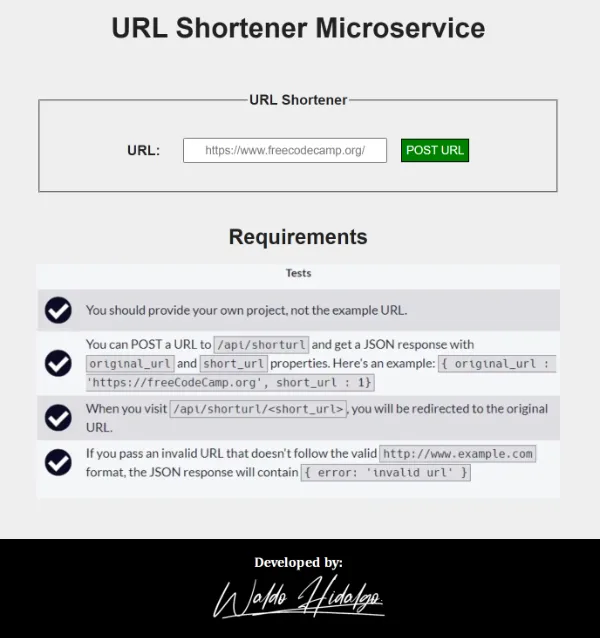
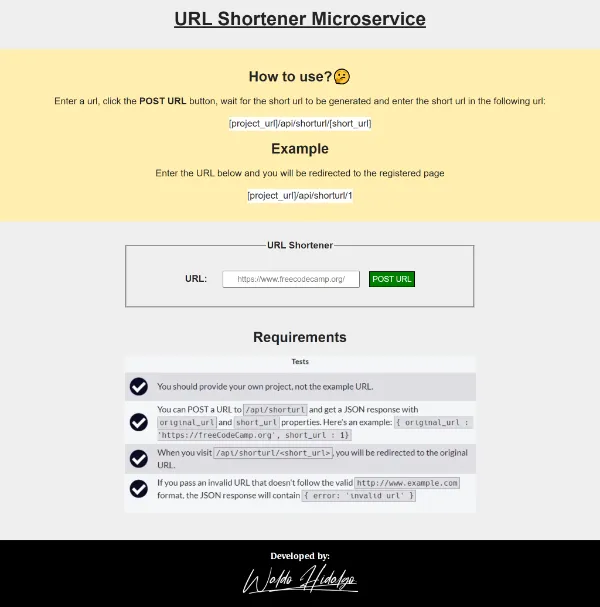
add section how to use in index.html

diff --git a/api/views/index.html b/api/views/index.html
@@ -13,6 +13,21 @@
   <body>
     <h1>URL Shortener Microservice</h1>
     <main>
+      <section id="user-stories">
+        <h2>How to use?🤔</h2>
+        <p>
+          Enter a url, click the
+          <span style="font-weight: 700">POST URL</span> button, wait for the
+          short url to be generated and enter the short url in the following
+          url:
+        </p>
+        <p class="code">[project_url]/api/shorturl/[short_url]</p>
+        <h2>Example</h2>
+        <p>
+          Enter the URL below and you will be redirected to the registered page
+        </p>
+        <p class="code">[project_url]/api/shorturl/1</p>
+      </section>
       <section>
         <form id="formulario" action="/api/shorturl" method="POST">
           <fieldset>

diff --git a/public/css/style.css b/public/css/style.css
@@ -7,7 +7,9 @@ body {
   line-height: 1.4em;
   margin: 0;
 }
-
+h1 {
+  text-decoration: underline;
+}
 main {
   padding: 0;
   margin-block: 40px;
@@ -67,4 +69,13 @@ fieldset {
   justify-content: center;
   align-items: center;
   gap: 1rem;
+}
+.code {
+  background-color: #fff;
+  width: fit-content;
+  margin-inline: auto;
+}
+#user-stories {
+  padding-block: 1rem;
+  background-color: #ffefaf;
 }
